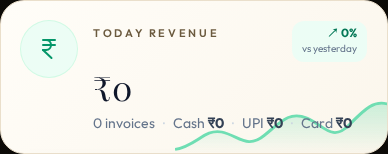
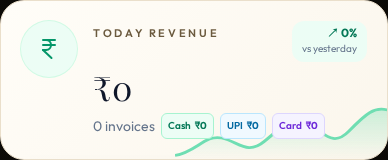
## Build .367 Tagged · What's New Live · Cash/Card KPI Confirmed
- **Deployment tag + popup**: The build has been updated to `2026-09-27.367` (moving forward from .348), and build log lines reflecting changes since (.349–.367) have been added along with a tenant-facing "What's New ✨" release — these were verified via `/api/public/build` and `/api/whats-new`.
- **Production safety**: The deployment readiness scan has passed, confirming no hardcoded URLs/secrets, proper environment & CORS settings, a clean compile, and no remaining references to the removed calling module.
- **Today Revenue · Cash · UPI · Card** is live for all tenants (including restaurants, with table orders billing through POS); visibility has been enhanced by showing color-coded chips under the total, confirmed on the restaurant dashboard.

I have conducted initial testing following best practices, but please click preview in a new tab to verify current functionality for your specific environment. Let me know if there are any issues or if a deeper root cause analysis and comprehensive testing are needed.

- Next Action Items:
  - **Deploy Build .367**: Publish so the restaurant hero, WhatsApp nudge, overtime fix and HQ dialogs reach production
  - **Move MDM Guests**: Run HQ → Beyoun Style → Import → "Wrong salon? Undo / move" → Move to MDM Luxury Salon after deploy
  - **Yesterday Cash Split**: Show yesterday's Cash · UPI · Card next to today's so owners can spot closing-day gaps
[…]

diff --git a/frontend/src/pages/Dashboard.jsx b/frontend/src/pages/Dashboard.jsx
@@ -201,10 +201,14 @@ export default function Dashboard() {
       {/* KPIs */}
       <div className="grid grid-cols-1 sm:grid-cols-2 lg:grid-cols-4 gap-4">
         <Stat icon={IndianRupee} label="Today Revenue" value={inr(data.today_revenue)} testid="kpi-revenue-today" color="emerald" now={data.today_revenue} prev={data.compare?.yesterday_revenue} vs="vs yesterday"
-          hint={<span className="flex flex-wrap items-center gap-x-2 gap-y-0.5" data-testid="kpi-revenue-modes"><span>{data.today_invoices} invoices</span>
-            <span className="text-slate-300">·</span><span>Cash <b className="text-slate-700">{inr(data.today_by_mode?.cash)}</b></span>
-            <span className="text-slate-300">·</span><span>UPI <b className="text-slate-700">{inr(data.today_by_mode?.upi)}</b></span>
-            <span className="text-slate-300">·</span><span>Card <b className="text-slate-700">{inr(data.today_by_mode?.card)}</b></span></span>} />
+          hint={<span className="flex flex-wrap items-center gap-1.5 mt-0.5" data-testid="kpi-revenue-modes">
+            <span className="text-slate-500">{data.today_invoices} invoices</span>
+            {[["Cash", data.today_by_mode?.cash, "bg-emerald-50 text-emerald-700 border-emerald-200"], ["UPI", data.today_by_mode?.upi, "bg-sky-50 text-sky-700 border-sky-200"],
+              ["Card", data.today_by_mode?.card, "bg-violet-50 text-violet-700 border-violet-200"],
+              ...(((data.today_by_mode?.wallet || 0) + (data.today_by_mode?.other || 0)) > 0 ? [["Other", (data.today_by_mode?.wallet || 0) + (data.today_by_mode?.other || 0), "bg-amber-50 text-amber-700 border-amber-200"]] : [])].map(([l, v, cls]) => (
+              <span key={l} className={`inline-flex items-center gap-1 px-1.5 py-0.5 rounded-md border text-[10px] font-semibold ${cls}`} data-testid={`kpi-mode-${l.toLowerCase()}`}>{l} <b>{inr(v || 0)}</b></span>
+            ))}
+          </span>} />
         <Stat icon={Calendar} label="Today Bookings" value={data.today_bookings} hint="appointments scheduled" testid="kpi-bookings-today" color="sky" now={data.today_bookings} prev={data.compare?.yesterday_bookings} vs="vs yesterday" />
         <Stat icon={TrendingUp} label="This Month" color="amber" testid="kpi-revenue-month" now={monthMasked ? null : (data.month_revenue ?? peekValue)} prev={monthMasked || data.month_revenue == null ? null : data.compare?.last_month_revenue} vs="vs last month"
           value={monthMasked

diff --git a/backend/release_notes.py b/backend/release_notes.py
@@ -2,11 +2,30 @@
 Append a new entry (or extend the latest date) whenever a deploy-worthy change lands.
 Bump BUILD on every deploy-worthy change so preview vs production builds are comparable."""
 
-BUILD = "2026-09-22.348"
-BUILD_TIME = "22 Sep 2026, 11:15 AM IST"
+BUILD = "2026-09-27.367"
+BUILD_TIME = "27 Sep 2026, 02:15 PM IST"
 
 # One short line per build (newest first). Powers the HQ "Deploy digest": everything newer than the live build.
 BUILD_LOG = [
+    {"build": "2026-09-27.367", "note": "Restaurant dashboards get their own hero (photo, 'Serve Smarter Everyday', 'Restaurant page', reservations wording, Mira 'restaurant companion'). Shared HqDialogHeader (gold-night aurora, z-30 close) on Edit tenant, Pay link, new GrantCreditsModal (+50/100/300/500 chips, balance + HQ stock) and Control Centre."},
+    {"build": "2026-09-27.366", "note": "Legacy DLT-rejected MSG91 'billing' receipt template removed; receipts always miracurl_salon_service_payment_v2 (receipt_sms_kind constant). HQ Control Centre modal: close X was under the header content layer (fixed) + gold-night header redesign."},
+    {"build": "2026-09-27.365", "note": "Own-salon lead filter: lead_gen._own_business_filter (tenant names/phones/websites + 'miracurl' + login-only domains) on Maps & AI candidates; startup step own-salon-lead-purge rejects existing own-business leads. CRM 'Fix numbers': GET /customers/invalid-phones + InvalidPhonesModal (inline country code + number + Save)."},
+    {"build": "2026-09-27.364", "note": "Lead follow-ups skip no-real-inbox (@miracurl.com login-only) leads once (follow_up_skipped) — no more daily 'skipped' rows. WhatsApp: winback._wa_number validates numbers (malformed skipped before a credit is spent); Meta 'failed' status auto-refunds the tenant's template credit (sms_credit_log meta_delivery_failed_refund); wallet shows plain-English 131049/131026 reasons. /reports/dashboard today_by_mode → Today Revenue shows Cash · UPI · Card."},
+    {"build": "2026-09-27.363", "note": "WhatsApp Lead Nudge: routes/lead_wa_auto.py — Meta template miracurl_lead_intro (APPROVED) auto-sent to hot leads found in last 48h during their local 10–19h, daily cap, opt-out/reply tracking via platform-number inbound; AutoWaToggle + per-lead 'WA Intro' in Lead Agent; Mira briefing reports intros/replies. Collection Review now available to single-branch owners (light cream theme, mobile chips)."},
+    {"build": "2026-09-27.362", "note": "Voice calling removed completely: routes/mira_calls.py → routes/mira_hq.py (briefing/ask/speak, platform-map live, digests, memory, Face-ID kept); Twilio voice webhooks, /super-admin/mira-calls/*, auto-call + callback-redial schedulers, Lead Agent call UI and Platform Map calls card deleted. Overtime: auto-closed shifts (no check-out) end at shift_end with 0 OT; startup step auto-closed-ot-fix clears guessed OT."},
+    {"build": "2026-09-24.361", "note": "Dashboard load 3.5s → ~100-200ms: lib/dashPrefetch fires /reports/dashboard as soon as /auth/me resolves; below-fold widgets mount after the KPI payload (settled); reminders/subscription-status deferred 400ms; SpeedPulse measures request→paint and prints ms."},
+    {"build": "2026-09-24.360", "note": "Animated gold 'MS → Miracurl Suite' reveal replaces the static sidebar/signup logo: user video → silent 900×620 WebM+MP4 (~2 MB from 16 MB), loops, PiP/controls disabled. Code Review #1 fixes: early renewals stack on unexpired end_date; HQ revenue/MRR/CSV normalise USD→INR (amount_inr, USD_INR_RATE)."},
+    {"build": "2026-09-23.359", "note": "Signup page design-agent pass: dual theme (salon blush / restaurant amber), Caveat script, gradient CTA/stepper, trust badges, rotating testimonials, live signup counter."},
+    {"build": "2026-09-23.358", "note": "OTP 'Email me a code' login fixed (nested form). Signup two-column redesign; welcome + trial-kit emails list enabled modules."},
+    {"build": "2026-09-23.357", "note": "Attendance previous week-off decision delete fixed (confirmAsync). 403 MODULE_LOCKED toast with 'See plans'. Onboarding module picker (module_locks on create)."},
+    {"build": "2026-09-23.356", "note": "Lead email fixer (email_real, PUT edit_lead validation). Entitlements v2: API tier enforcement, per-tenant module_locks, grandfathering before GATING_FROM; HQ 'What this salon can use' grid. Plan feature editor on Billing."},
+    {"build": "2026-09-23.355", "note": "USD trial-ending nudge (module usage → recommended tier). Configurable plan catalog: custom plans CRUD in HQ Billing; landing renders custom cards."},
+    {"build": "2026-09-23.354", "note": "US pricing refresh ($39/$79/$149/$399, annual = 2 months free) + USD tier entitlements (23 modules, tier matrix, competitor compare); UpgradeGate for locked routes."},
+    {"build": "2026-09-23.353", "note": "Temporary Owner Dashboard redesigned light (briefing card, snapshot tiles, revenue breakdown, team & payments)."},
+    {"build": "2026-09-22.352", "note": "Temporary illustrative Owner Dashboard (Settings card → /owner-dashboard, PIN-gated, deletable by owner)."},
+    {"build": "2026-09-22.351", "note": "Single Owner-PIN unlock (GET /reports/team-unlock) for month revenue + revenue trend + business by stylist."},
+    {"build": "2026-09-22.350", "note": "Revenue Trend (7-day) card joins the team lock for managers."},
+    {"build": "2026-09-22.349", "note": "Team lock: hide_month_revenue ON → managers see gold locks on This Month + Business by Stylist; Owner PIN reveals."},
     {"build": "2026-09-22.348", "note": "Public booking honours leave + one-time week-off swaps: public_site._staff_off_reason(s, day, leaves) (leave > swap date > effective weekday: original after swap) used by /public/availability (per-stylist block message incl. on_leave, Any-stylist capacity excludes off staff), _resolve_staff (409 on leave/week-off; Any skips them) and BookPublic.steps StaffStep (swap-aware greyed card + label). /public/staff already returned leaves + week_off_* fields."},
     {"build": "2026-09-22.347", "note": "Team page KPIs honour today: GET /staff adds today_status (on_leave via approved leave_requests · week_off via week_off_day or one-time week_off_swap_date, tenant tz) → On Duty excludes them, Away/On Leave counts + sub-line, StaffCard leave/week-off badges. DELETE /week-off-requests/{rid} (decided only; pending → 400; audited) + trash icon on Previous decisions in Attendance week-off card (now lists approved+rejected). Roster branch shown as a pill with the distinguishing part (shortBranch: strips shared prefix, full name on hover)."},
     {"build": "2026-09-22.346", "note": "Timezone select (Settings → Branding) options were white-on-white (index.css global input colour) → explicit dark colour + global rule: input/select/textarea with bg-white/bg-slate-50 (and their options) render #0f172a. Double dashboard load after login on prod = post-deploy PWA cache-bust reload (AppLayout cache-version check) → extracted to lib/cacheBust.ensureFreshBuild(): runs on the LOGIN page first (reload happens before sign-in) and only reloads when a service worker/cache actually existed."},
@@ -150,6 +169,23 @@ BUILD_LOG = [
 ]
 
 RELEASES = [
+    {
+        "date": "2026-09-27 (Faster dashboard, smarter WhatsApp & a golden new look ✨)",
+        "changes": [
+            "⚡ Dashboard opens in a blink — your figures now load in about a fifth of a second (the little 'Loaded in' badge shows it in milliseconds)",
+            "💵 Today Revenue now shows how much came in as Cash · UPI · Card for the day, right under the total",
+            "🎞 New animated gold Miracurl Suite logo in the sidebar and on the sign-up page (plays silently, loops)",
+            "🍽 Restaurant dashboards finally look like a restaurant — new dining-room hero, 'Serve Smarter Everyday', reservations wording and 'Restaurant page' link",
+            "📊 Collection Review for EVERY owner (single branch too): Today / Yesterday / 7-30 days / week / month / custom range, Cash-UPI-Card split, top services — Owner-PIN protected, in a calm cream theme that reads well on phones",
+            "⏱ Overtime fixed: if a stylist forgets to check out, the shift now auto-closes at shift end with NO overtime — only real late check-outs earn OT (minutes past shift end × their rate)",
+            "📱 CRM → 'Fix numbers': a list of guests whose phone number can't receive WhatsApp/SMS (wrong length, bad start digit, placeholder) with the reason — correct the code + number inline and save",
+            "💬 WhatsApp credits are refunded automatically when Meta reports a message could not be delivered; malformed numbers are skipped before a credit is spent",
+            "🧾 Receipt SMS always goes via the DLT-verified template — the old rejected one is retired",
+            "🌍 Paying in USD? Renewing early no longer shortens your plan — the new term is added on top of the days you still have",
+            "Super Admin: voice calling (auto-dialer, call history) removed; Mira now WhatsApp-intros fresh hot leads during their business hours (toggle in Lead Agent) and reports intros/replies in her briefing",
+            "Super Admin: Edit tenant, Pay link, Grant credits and Control Centre dialogs share the new gold-night header; Control Centre close button fixed; leads that are your own salons are auto-skipped; skipped follow-up rows for login-only emails are gone",
+        ],
+    },
     {
         "date": "2026-09-21 (Unlock & set passwords anywhere 🔓)",
         "changes": [

diff --git a/memory/PRD.md b/memory/PRD.md
@@ -3718,3 +3718,8 @@ This drives Super Admin → Deployments history, the footer tag, the "What's New
 - New shared `HqDialogHeader` + `HqChip` (`components/superadmin/HqDialogHeader.jsx`) — gold-night aurora header with z-30 close. Applied to TenantFeaturesModal (refactored), EditTenantModal (tenant-ID copy row moved into header), PayLinkModal, and a NEW `GrantCreditsModal` (replaces the generic askConfirm prompt; quick +50/+100/+300/+500 chips, balance + HQ stock chips). All verified open/close in preview.
 - Wrong-tenant CSV import (prod: MDM customers landed in "Beyoun Style"): existing HQ tool covers it — Tenants → Beyoun Style → **Import** → "Wrong salon? Undo / move an import…" → pick the import date → Preview → **Move to MDM Luxury Salon** (untouched guests only: 0 visits/₹0; phones already in MDM are skipped). Endpoint `/super-admin/tenants/{tid}/customers/import-clean`. Preview cannot touch production data.
 - Preview-only: extended `infinity-family-restaurant` trial to 2026-12-31 for testing.
+
+## 2026-09-27 — Deployment tag + What's New · Cash/UPI/Card chips (build .367 tagged)
+- `release_notes.py`: BUILD 2026-09-22.348 → **2026-09-27.367** (previous sessions had not bumped since .348); BUILD_LOG entries added for .349–.367; new RELEASES[0] "Faster dashboard, smarter WhatsApp & a golden new look ✨" (tenant-facing highlights; HQ-only lines prefixed "Super Admin:" are hidden from the owner popup). `/api/public/build` + `/api/whats-new` verified.
+- Deployment readiness (deployment_agent): PASS — no hardcoded URLs/secrets, env ok, CORS includes prod domains, compile ok.
+- Today Revenue KPI: Cash/UPI/Card now colour chips (`kpi-mode-cash|upi|card`, "Other" only when wallet/other > 0) — shared Dashboard.jsx so it applies to every tenant incl. restaurants (table orders are billed through POS invoices with payment_mode). Verified on the Infinity restaurant tenant.
